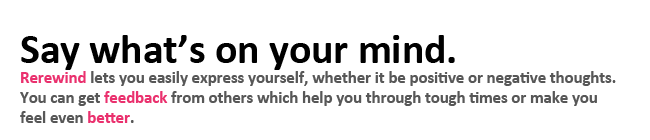
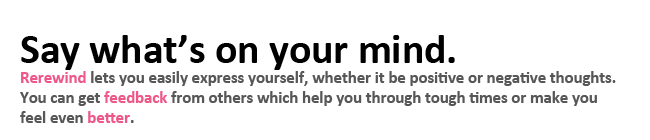
Changed around some colors again

Changed region(s): [[0.1538, 0.6571, 0.2769, 0.7429], [0.0308, 0.5143, 0.1538, 0.6], [0.1231, 0.8, 0.2154, 0.8857]]

diff --git a/public/stylesheets/rere_default.css b/public/stylesheets/rere_default.css
@@ -1,11 +1,11 @@
 a:link {
-	color:#66AFFF;
+	color:#3399FF;
 	text-decoration: none;}      /* unvisited link */
 a:visited {
-	color:#66AFFF;
+	color:#3399FF;
 	text-decoration: none;}  /* visited link */
 a:hover {
-	color:#66AFFF;
+	color:#3399FF;
 	text-decoration: underline;}  /* mouse over link */
 a:active {
 	color:#66AFFF;
